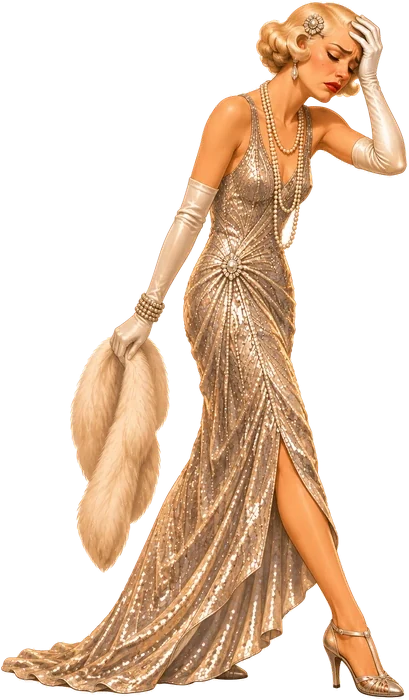
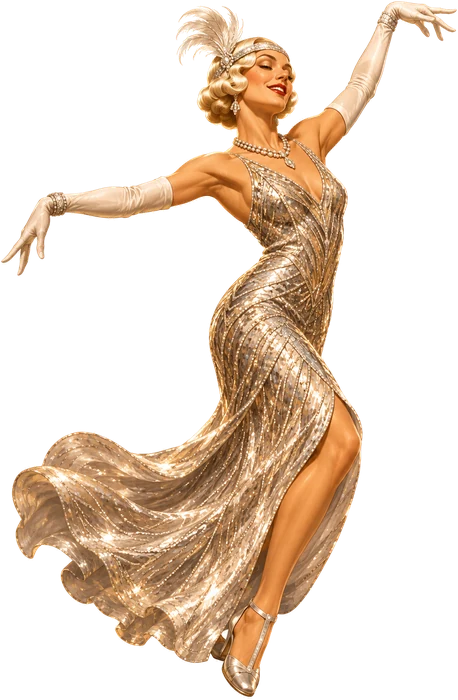
Chaises musicales : la vraie danse de la Comtesse
Remplace la pose provisoire (sa pose vexée retournée).

Claude-Session: https://claude.ai/code/session_01Vs3Q35NuqGK4HWxeJkBpbC

diff --git a/CasinoChaises.tsx b/CasinoChaises.tsx
@@ -35,7 +35,7 @@ const NOMS: Record<string, [string, string]> = {
 /** Les proportions des images (largeur / hauteur). */
 const RATIO: Record<string, number> = {
   chaise: 310 / 520,
-  'comtesse-danse': 409 / 700,
+  'comtesse-danse': 458 / 700,
   'colonel-danse': 435 / 700,
   'charleston-danse': 383 / 700,
   'magnat-danse': 449 / 700,
@@ -49,7 +49,7 @@ const RATIO: Record<string, number> = {
   'magnat-elimine': 389 / 700,
 };
 /** Les images de danse qui regardent à gauche (on les retourne pour qu'elles regardent toutes à droite). */
-const DANSE_A_GAUCHE = new Set(['comtesse']);
+const DANSE_A_GAUCHE = new Set<string>([]);
 
 // ---------------------------------------------------------------------------------------------------------------
 // Le calendrier (un tour de 6 s : la musique, l'arrêt, la ruée, assis, on se relève)
